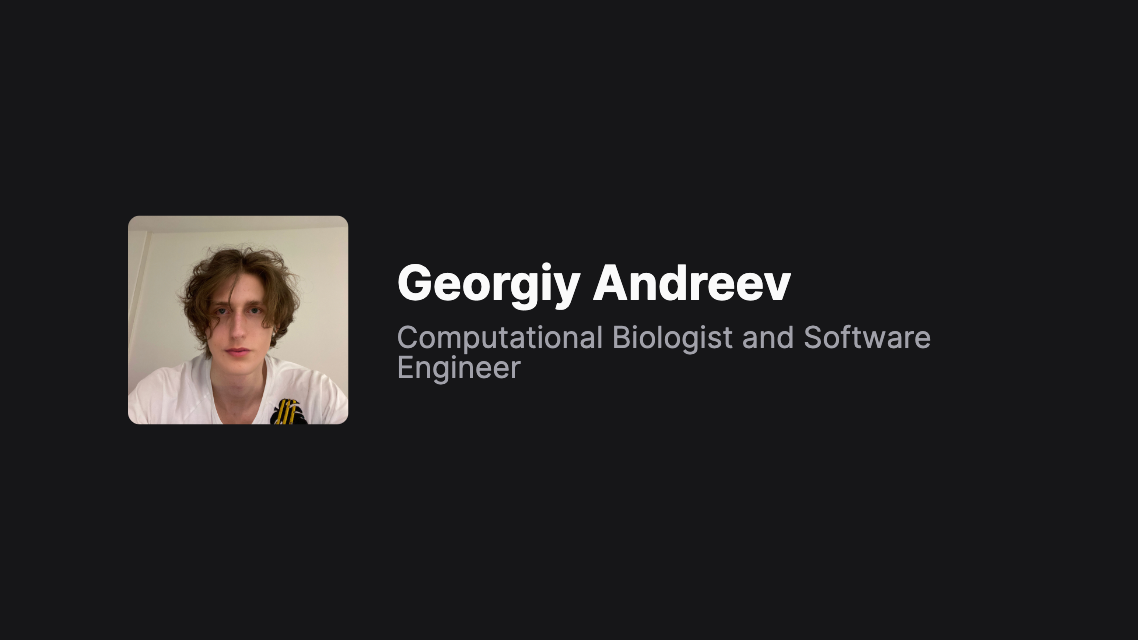
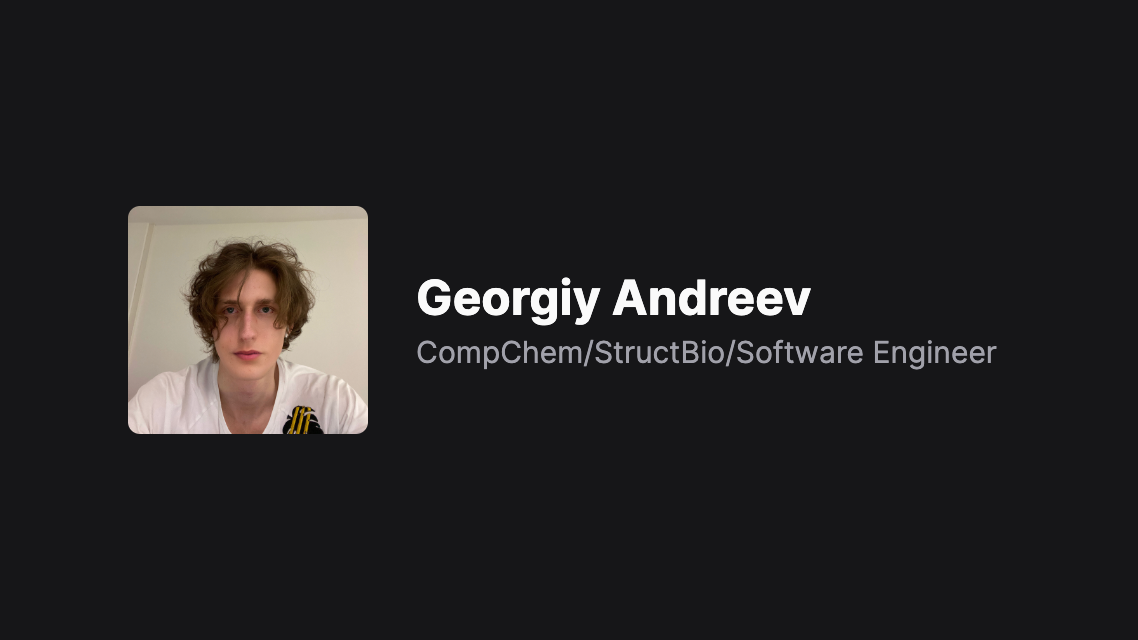
Small tweaks and print fix

Changed region(s): [[0.0923, 0.3125, 0.8919, 0.6875], [0.0923, 0.5938, 0.123, 0.625]]

diff --git a/app/components/project-card.tsx b/app/components/project-card.tsx
@@ -19,7 +19,7 @@ interface Props {
 
 export function ProjectCard({ title, description, techStack, link }: Props) {
   return (
-    <Card className="border-muted flex flex-col rounded-lg border p-3 print:shadow-none">
+    <Card className="border-muted flex flex-col rounded-lg border p-3 shadow-sm print:shadow-none">
       <CardHeader className="pb-3">
         <div className="space-y-1">
           <CardTitle className="text-base">
@@ -44,7 +44,9 @@ export function ProjectCard({ title, description, techStack, link }: Props) {
                 .replace("/", "")}
             </div>
           )}
-          <CardDescription className="text-sm">{description}</CardDescription>
+          <CardDescription className="font-mono text-sm">
+            {description}
+          </CardDescription>
         </div>
       </CardHeader>
       {techStack.length > 0 && (

diff --git a/data/en.ts b/data/en.ts
@@ -14,7 +14,7 @@ const data: Data = {
   },
   location: "Abu Dhabi, UAE, GMT+4",
   locationLink: "https://www.google.com/maps/place/Abu+Dhabi",
-  bio: "Computational Biologist and Software Engineer",
+  bio: "CompChem/StructBio/Software Engineer",
   summary:
     "I have a proven track record of participating in research projects in Structural Biology and Computational Chemistry with global collaborators. My experiences have deepened my understanding of the community's need for responsive, robust, and scalable scientific software, a challenge I have enthusiastically met as Lead Developer for Alchemistry in Chemistry42. Currently, I work primarily with Python and C++. I do scientific illustrations and renders. I love proteins and small molecules; I want to believe the feeling is mutual",
   avatarUrl: getAssetPath() + "/locale/en/avatar.jpg",

diff --git a/app/[locale]/page.tsx b/app/[locale]/page.tsx
@@ -23,7 +23,7 @@ export default async function Home({
   const data = getData();
 
   return (
-    <main className="container mb-6 max-w-2xl space-y-8 px-10 pb-16 pt-10 sm:py-16 print:mb-0 print:py-6">
+    <main className="max-w-3.5xl container mb-6 space-y-8 px-10 pb-16 pt-10 sm:py-16 print:mb-0 print:py-6">
       <section>
         <p className="text-muted-foreground mb-4 text-right text-sm italic">
           <time>{format(new Date(data.lastUpdatedAt), "yyyy-MM-dd")}</time>
@@ -204,7 +204,7 @@ export default async function Home({
         </div>
       </Section>
 
-      <Section title={t("projects")}>
+      <Section title={t("projects")} avoidPageBreak>
         <div className="overflow-hidden">
           <div className="grid grid-cols-1 gap-2 sm:grid-cols-2">
             {data.projects.map((project) => (

diff --git a/tailwind.config.ts b/tailwind.config.ts
@@ -18,6 +18,9 @@ const config = {
       },
     },
     extend: {
+      maxWidth: {
+        "3.5xl": "52rem",
+      },
       fontSize: {
         base: "0.9375rem",
       },
